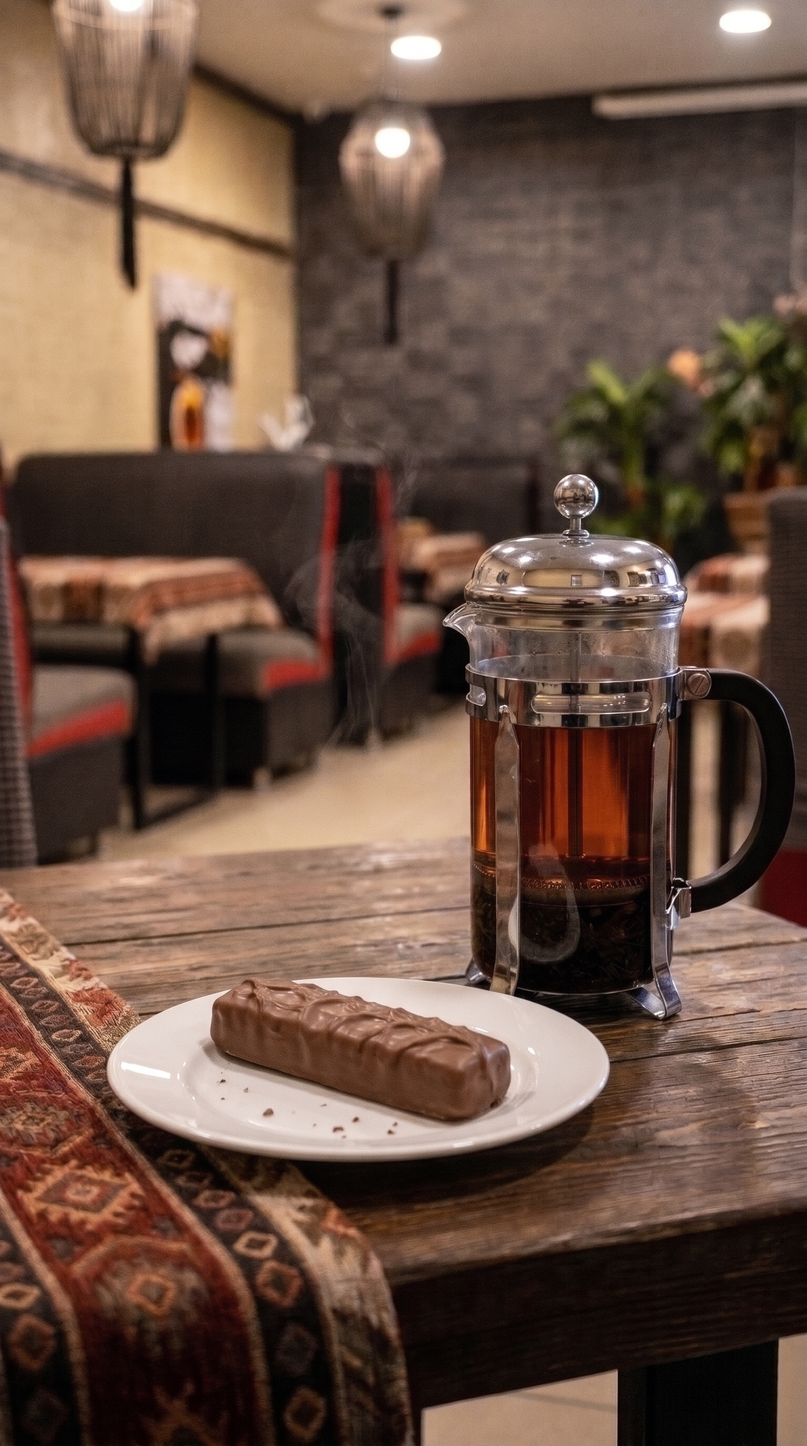
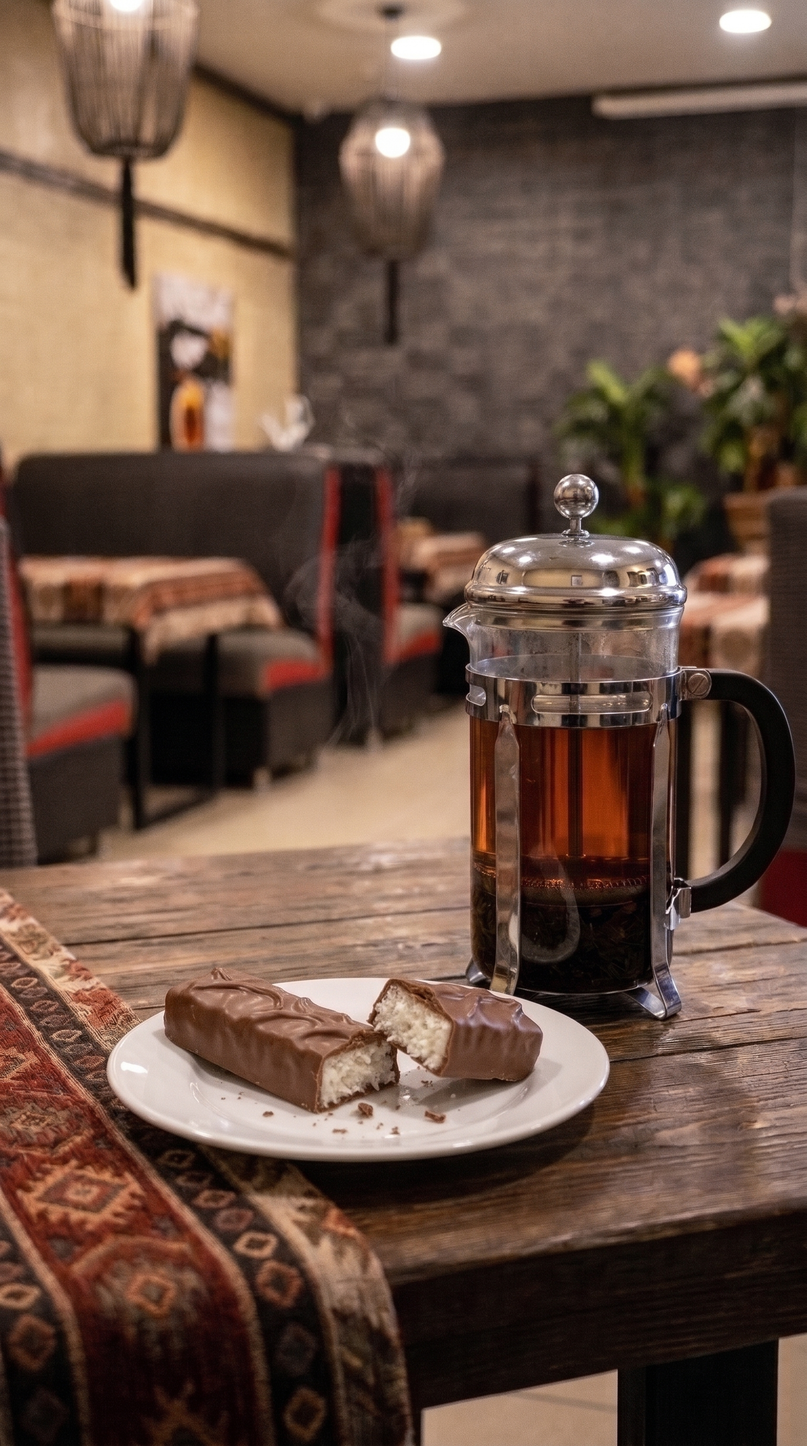
some changes

diff --git a/src/data/menuData.js b/src/data/menuData.js
@@ -19,7 +19,22 @@ import croissant from '../products/croissant.jpg';
 import popkek from '../products/popkek.jpg';
 
 import whitecherry from '../products/whitecherry.jpg';
-import rafaello from '../products/rafaello.jpg';
+import nutjam from '../products/nutjam.jpg';
+import strawberryjam from '../products/strawberryjam.jpg';
+import plombirjam from '../products/plombirjam.jpg';
+import snickersjam from '../products/snickersjam.jpg';
+
+import cola from '../products/cola.jpg';
+import fanta from '../products/fanta.jpg';
+import sprite from '../products/sprite.jpg';
+import spritebanka from '../products/spritebanka.jpg';
+import colabanka from '../products/colabanka.jpg';
+import fantabanka from '../products/fantabanka.jpg';
+import fusetea from '../products/fusetea.jpg';
+import fuseteabanka from '../products/fuseteabanka.jpg';
+import moxito from '../products/moxito.jpg';
+import juice from '../products/juice.jpg';
+
 
 export const menuData = {
   "restaurant": {
@@ -40,7 +55,7 @@ export const menuData = {
   ],
   "categories": [
     { "id": "caylar", "name": { "az": "Çaylar", "en": "Teas", "ru": "Чай" }, "icon": "Wine" },
-    { "id": "cay_sirniyyat", "name": { "az": "Çay + Şirniyyatlar", "en": "Tea & Sweets", "ru": "Чай и сладости" }, "icon": "Cake" },
+    { "id": "sirniyyat", "name": { "az": "Şirniyyatlar", "en": "Sweets", "ru": "Сладости" }, "icon": "Cake" },
     { "id": "murebbeler", "name": { "az": "Mürəbbələr", "en": "Jams", "ru": "Варенье" }, "icon": "Cake" },
     { "id": "alkoqolsuz", "name": { "az": "Alkoqolsuz İçkilər", "en": "Soft Drinks", "ru": "Безалкогольные" }, "icon": "Wine" },
     { "id": "enerji", "name": { "az": "Enerji İçkiləri", "en": "Energy Drinks", "ru": "Энергетики" }, "icon": "Wine" },
@@ -54,36 +69,36 @@ export const menuData = {
   ],
   "items": {
     "caylar": [
-      { 
-        "id": "cy_1", 
-        "title": { "az": "Qara çay", "en": "Black tea", "ru": "Черный чай" }, 
-        "desc": { "az": "Klassik dəmləmə qara çay", "en": "Classic brewed black tea", "ru": "Классический заварной черный чай" }, 
-        "price": "4.00 ₼", 
-        "image": teaImage 
+      {
+        "id": "cy_1",
+        "title": { "az": "Qara çay", "en": "Black tea", "ru": "Черный чай" },
+        "desc": { "az": "Klassik dəmləmə qara çay", "en": "Classic brewed black tea", "ru": "Классический заварной черный чай" },
+        "price": "4.00 ₼",
+        "image": teaImage
       },
-      { 
-        "id": "cy_2", 
-        "title": { "az": "Yaşıl çay", "en": "Green tea", "ru": "Зеленый чай" }, 
-        "desc": { "az": "Təravətli yaşıl çay dəmləməsi", "en": "Fresh green tea brew", "ru": "Свежий зеленый чай" }, 
-        "price": "5.00 ₼", 
-        "image": greenteaImage 
+      {
+        "id": "cy_2",
+        "title": { "az": "Yaşıl çay", "en": "Green tea", "ru": "Зеленый чай" },
+        "desc": { "az": "Təravətli yaşıl çay dəmləməsi", "en": "Fresh green tea brew", "ru": "Свежий зеленый чай" },
+        "price": "5.00 ₼",
+        "image": greenteaImage
       },
-      { 
-        "id": "cy_3", 
-        "title": { "az": "Ədviyyatlı çay", "en": "Spiced tea", "ru": "Пряный чай" }, 
-        "desc": { "az": "Seçilmiş ədviyyat və ot əlavələri ilə (Kəklikotu, melissa, jasmin, darçın, nanə, qızılgül, şaftalı, 1001 gecə çayı, manqo, mixək, sitrus)", "en": "With selected herbs and spices", "ru": "С травами и специями" }, 
-        "price": "6.00 ₼", 
-        "image": spicyteaImage 
+      {
+        "id": "cy_3",
+        "title": { "az": "Ədviyyatlı çay", "en": "Spiced tea", "ru": "Пряный чай" },
+        "desc": { "az": "Seçilmiş ədviyyat və ot əlavələri ilə (Kəklikotu, melissa, jasmin, darçın, nanə, qızılgül, şaftalı, 1001 gecə çayı, manqo, mixək, sitrus)", "en": "With selected herbs and spices", "ru": "С травами и специями" },
+        "price": "6.00 ₼",
+        "image": spicyteaImage
       },
-      { 
-        "id": "cy_4", 
-        "title": { "az": "Meyvəli çay", "en": "Fruity tea", "ru": "Фруктовый чай" }, 
-        "desc": { "az": "Zəngin meyvə aromalı çay", "en": "Rich fruit flavored tea", "ru": "Чай с богатым фруктовым ароматом" }, 
-        "price": "8.00 ₼", 
-        "image": fruitteaImage 
+      {
+        "id": "cy_4",
+        "title": { "az": "Meyvəli çay", "en": "Fruity tea", "ru": "Фруктовый чай" },
+        "desc": { "az": "Zəngin meyvə aromalı çay", "en": "Rich fruit flavored tea", "ru": "Чай с богатым фруктовым ароматом" },
+        "price": "8.00 ₼",
+        "image": fruitteaImage
       }
     ],
-    "cay_sirniyyat": [
+    "sirniyyat": [
       { "id": "cs_1", "title": { "az": "Alpengold", "en": "Alpengold", "ru": "Alpengold" }, "desc": { "az": "Standart şokolad", "en": "Standard chocolate", "ru": "Шоколад" }, "price": "6.00 ₼", "image": alpengold },
       { "id": "cs_2", "title": { "az": "Snickers", "en": "Snickers", "ru": "Snickers" }, "desc": { "az": "Fıstıqlı baton", "en": "Peanut chocolate bar", "ru": "Шоколадный батончик с арахисом" }, "price": "4.00 ₼", "image": snickers },
       { "id": "cs_3", "title": { "az": "Bounty", "en": "Bounty", "ru": "Bounty" }, "desc": { "az": "Kokos içlikli şokolad", "en": "Coconut filled chocolate", "ru": "Шоколад с кокосовой начинкой" }, "price": "4.00 ₼", "image": bounty },
@@ -95,23 +110,23 @@ export const menuData = {
       { "id": "cs_9", "title": { "az": "Pop kek", "en": "Pop cake", "ru": "Поп кек" }, "desc": { "az": "Şirin pop kek", "en": "Sweet pop cake", "ru": "Сладкий кекс" }, "price": "6.00 ₼", "image": popkek }
     ],
     "murebbeler": [
-      { "id": "mr_1", "title": { "az": "Qoz mürəbbəsi", "en": "Walnut jam", "ru": "Варенье из грецкого ореха" }, "desc": { "az": "Ev üsulu qoz mürəbbəsi", "en": "Homemade walnut jam", "ru": "Домашнее варенье из грецкого ореха" }, "price": "7.00 ₼", "image": whitecherry },
-      { "id": "mr_2", "title": { "az": "Çiyələk mürəbbəsi", "en": "Strawberry jam", "ru": "Клубничное варенье" }, "desc": { "az": "Təbii çiyələk mürəbbəsi", "en": "Natural strawberry jam", "ru": "Натуральное клубничное варенье" }, "price": "6.00 ₼", "image": "" },
-      { "id": "mr_3", "title": { "az": "Snickers mürəbbəsi", "en": "Snickers jam", "ru": "Варенье Сникерс" }, "desc": { "az": "Xüsusi hazırlanmış desert mürəbbə", "en": "Special dessert jam", "ru": "Специальное десертное варенье" }, "price": "6.00 ₼", "image": "" },
-      { "id": "mr_4", "title": { "az": "Plombir mürəbbəsi", "en": "Plombir jam", "ru": "Варенье Пломбир" }, "desc": { "az": "Krem dadlı mürəbbə", "en": "Cream flavored jam", "ru": "Варенье со вкусом пломбира" }, "price": "6.00 ₼", "image": "" },
-      { "id": "mr_5", "title": { "az": "Ağ gilas mürəbbəsi", "en": "White cherry jam", "ru": "Варенье из белой черешни" }, "desc": { "az": "Ənənəvi ağ gilas mürəbbəsi", "en": "Traditional white cherry jam", "ru": "Традиционное варенье из белой черешни" }, "price": "6.00 ₼", "image": rafaello }
+      { "id": "mr_1", "title": { "az": "Qoz mürəbbəsi", "en": "Walnut jam", "ru": "Варенье из грецкого ореха" }, "desc": { "az": "Ev üsulu qoz mürəbbəsi", "en": "Homemade walnut jam", "ru": "Домашнее варенье из грецкого ореха" }, "price": "7.00 ₼", "image": nutjam },
+      { "id": "mr_2", "title": { "az": "Çiyələk mürəbbəsi", "en": "Strawberry jam", "ru": "Клубничное варенье" }, "desc": { "az": "Təbii çiyələk mürəbbəsi", "en": "Natural strawberry jam", "ru": "Натуральное клубничное варенье" }, "price": "6.00 ₼", "image":strawberryjam },
+      { "id": "mr_3", "title": { "az": "Snickers mürəbbəsi", "en": "Snickers jam", "ru": "Варенье Сникерс" }, "desc": { "az": "Xüsusi hazırlanmış desert mürəbbə", "en": "Special dessert jam", "ru": "Специальное десертное варенье" }, "price": "6.00 ₼", "image": snickersjam },
+      { "id": "mr_4", "title": { "az": "Plombir mürəbbəsi", "en": "Plombir jam", "ru": "Варенье Пломбир" }, "desc": { "az": "Krem dadlı mürəbbə", "en": "Cream flavored jam", "ru": "Варенье со вкусом пломбира" }, "price": "6.00 ₼", "image": plombirjam },
+      { "id": "mr_5", "title": { "az": "Ağ gilas mürəbbəsi", "en": "White cherry jam", "ru": "Варенье из белой черешни" }, "desc": { "az": "Ənənəvi ağ gilas mürəbbəsi", "en": "Traditional white cherry jam", "ru": "Традиционное варенье из белой черешни" }, "price": "6.00 ₼", "image": whitecherry }
     ],
     "alkoqolsuz": [
-      { "id": "a_1", "title": { "az": "Cola (1L)", "en": "Cola (1L)", "ru": "Кола (1Л)" }, "desc": { "az": "Sərinləşdirici qazlı içki 1 litr", "en": "Refreshing soft drink 1L", "ru": "Освежающий газированный напиток 1л" }, "price": "3.00 ₼", "image": "" },
-      { "id": "a_2", "title": { "az": "Fanta (1L)", "en": "Fanta (1L)", "ru": "Фанта (1Л)" }, "desc": { "az": "Portağal qazlı içki 1 litr", "en": "Orange soft drink 1L", "ru": "Апельсиновый напиток 1л" }, "price": "3.00 ₼", "image": "" },
-      { "id": "a_3", "title": { "az": "Sprite (1L)", "en": "Sprite (1L)", "ru": "Спрайт (1Л)" }, "desc": { "az": "Limon qazlı içki 1 litr", "en": "Lemon soft drink 1L", "ru": "Лимонный напиток 1л" }, "price": "3.00 ₼", "image": "" },
-      { "id": "a_4", "title": { "az": "Cola (Banka)", "en": "Cola (Can)", "ru": "Кола (Жерстяная банка)" }, "desc": { "az": "Banka qazlı içki", "en": "Canned soft drink", "ru": "Газированный напиток в банке" }, "price": "3.00 ₼", "image": "" },
-      { "id": "a_5", "title": { "az": "Fanta (Banka)", "en": "Fanta (Can)", "ru": "Фанта (Банка)" }, "desc": { "az": "Banka qazlı içki", "en": "Canned soft drink", "ru": "Газированный напиток в банке" }, "price": "3.00 ₼", "image": "" },
-      { "id": "a_6", "title": { "az": "Sprite (Banka)", "en": "Sprite (Can)", "ru": "Спрайт (Банка)" }, "desc": { "az": "Banka qazlı içki", "en": "Canned soft drink", "ru": "Газированный напиток в банке" }, "price": "3.00 ₼", "image": "" },
-      { "id": "a_7", "title": { "az": "Fuse tea (0.5L)", "en": "Fuse tea (0.5L)", "ru": "Фьюз чай (0.5Л)" }, "desc": { "az": "Soyuq çay 0.5 litr", "en": "Iced tea 0.5L", "ru": "Холодный чай 0.5л" }, "price": "2.50 ₼", "image": "" },
-      { "id": "a_8", "title": { "az": "Fuse tea (Banka)", "en": "Fuse tea (Can)", "ru": "Фьюз чай (Банка)" }, "desc": { "az": "Banka soyuq çay", "en": "Canned iced tea", "ru": "Холодный чай в банке" }, "price": "3.00 ₼", "image": "" },
-      { "id": "a_9", "title": { "az": "Meyvə şirəsi (1L)", "en": "Fruit juice (1L)", "ru": "Фруктовый сок (1Л)" }, "desc": { "az": "Qutu meyvə şirəsi 1 litr", "en": "Box fruit juice 1L", "ru": "Фруктовый сок в пакете 1л" }, "price": "4.00 ₼", "image": "" },
-      { "id": "a_10", "title": { "az": "Moxito (Qrafin)", "en": "Mojito (Pitcher)", "ru": "Мохито (Кувшин)" }, "desc": { "az": "Sərinləşdirici moxito qrafində", "en": "Refreshing mojito in pitcher", "ru": "Освежающий мохито в кувшине" }, "price": "6.00 ₼", "image": "" }
+      { "id": "a_1", "title": { "az": "Cola (1L)", "en": "Cola (1L)", "ru": "Кола (1Л)" }, "desc": { "az": "Sərinləşdirici qazlı içki 1 litr", "en": "Refreshing soft drink 1L", "ru": "Освежающий газированный напиток 1л" }, "price": "3.00 ₼", "image": cola },
+      { "id": "a_2", "title": { "az": "Fanta (1L)", "en": "Fanta (1L)", "ru": "Фанта (1Л)" }, "desc": { "az": "Portağal qazlı içki 1 litr", "en": "Orange soft drink 1L", "ru": "Апельсиновый напиток 1л" }, "price": "3.00 ₼", "image": fanta },
+      { "id": "a_3", "title": { "az": "Sprite (1L)", "en": "Sprite (1L)", "ru": "Спрайт (1Л)" }, "desc": { "az": "Limon qazlı içki 1 litr", "en": "Lemon soft drink 1L", "ru": "Лимонный напиток 1л" }, "price": "3.00 ₼", "image": sprite },
+      { "id": "a_4", "title": { "az": "Cola (Banka)", "en": "Cola (Can)", "ru": "Кола (Жерстяная банка)" }, "desc": { "az": "Banka qazlı içki", "en": "Canned soft drink", "ru": "Газированный напиток в банке" }, "price": "3.00 ₼", "image": colabanka },
+      { "id": "a_5", "title": { "az": "Fanta (Banka)", "en": "Fanta (Can)", "ru": "Фанта (Банка)" }, "desc": { "az": "Banka qazlı içki", "en": "Canned soft drink", "ru": "Газированный напиток в банке" }, "price": "3.00 ₼", "image": fantabanka },
+      { "id": "a_6", "title": { "az": "Sprite (Banka)", "en": "Sprite (Can)", "ru": "Спрайт (Банка)" }, "desc": { "az": "Banka qazlı içki", "en": "Canned soft drink", "ru": "Газированный напиток в банке" }, "price": "3.00 ₼", "image": spritebanka },
+      { "id": "a_7", "title": { "az": "Fuse tea (0.5L)", "en": "Fuse tea (0.5L)", "ru": "Фьюз чай (0.5Л)" }, "desc": { "az": "Soyuq çay 0.5 litr", "en": "Iced tea 0.5L", "ru": "Холодный чай 0.5л" }, "price": "2.50 ₼", "image": fusetea },
+      { "id": "a_8", "title": { "az": "Fuse tea (Banka)", "en": "Fuse tea (Can)", "ru": "Фьюз чай (Банка)" }, "desc": { "az": "Banka soyuq çay", "en": "Canned iced tea", "ru": "Холодный чай в банке" }, "price": "3.00 ₼", "image": fuseteabanka },
+      { "id": "a_9", "title": { "az": "Meyvə şirəsi (1L)", "en": "Fruit juice (1L)", "ru": "Фруктовый сок (1Л)" }, "desc": { "az": "Qutu meyvə şirəsi 1 litr", "en": "Box fruit juice 1L", "ru": "Фруктовый сок в пакете 1л" }, "price": "4.00 ₼", "image": juice },
+      { "id": "a_10", "title": { "az": "Moxito (Qrafin)", "en": "Mojito (Pitcher)", "ru": "Мохито (Кувшин)" }, "desc": { "az": "Sərinləşdirici moxito qrafində", "en": "Refreshing mojito in pitcher", "ru": "Освежающий мохито в кувшине" }, "price": "6.00 ₼", "image": moxito }
     ],
     "enerji": [
       { "id": "en_1", "title": { "az": "Red bull", "en": "Red bull", "ru": "Red bull" }, "desc": { "az": "Enerji içkisi", "en": "Energy drink", "ru": "Энергетический напиток" }, "price": "5.00 ₼", "image": "" },
